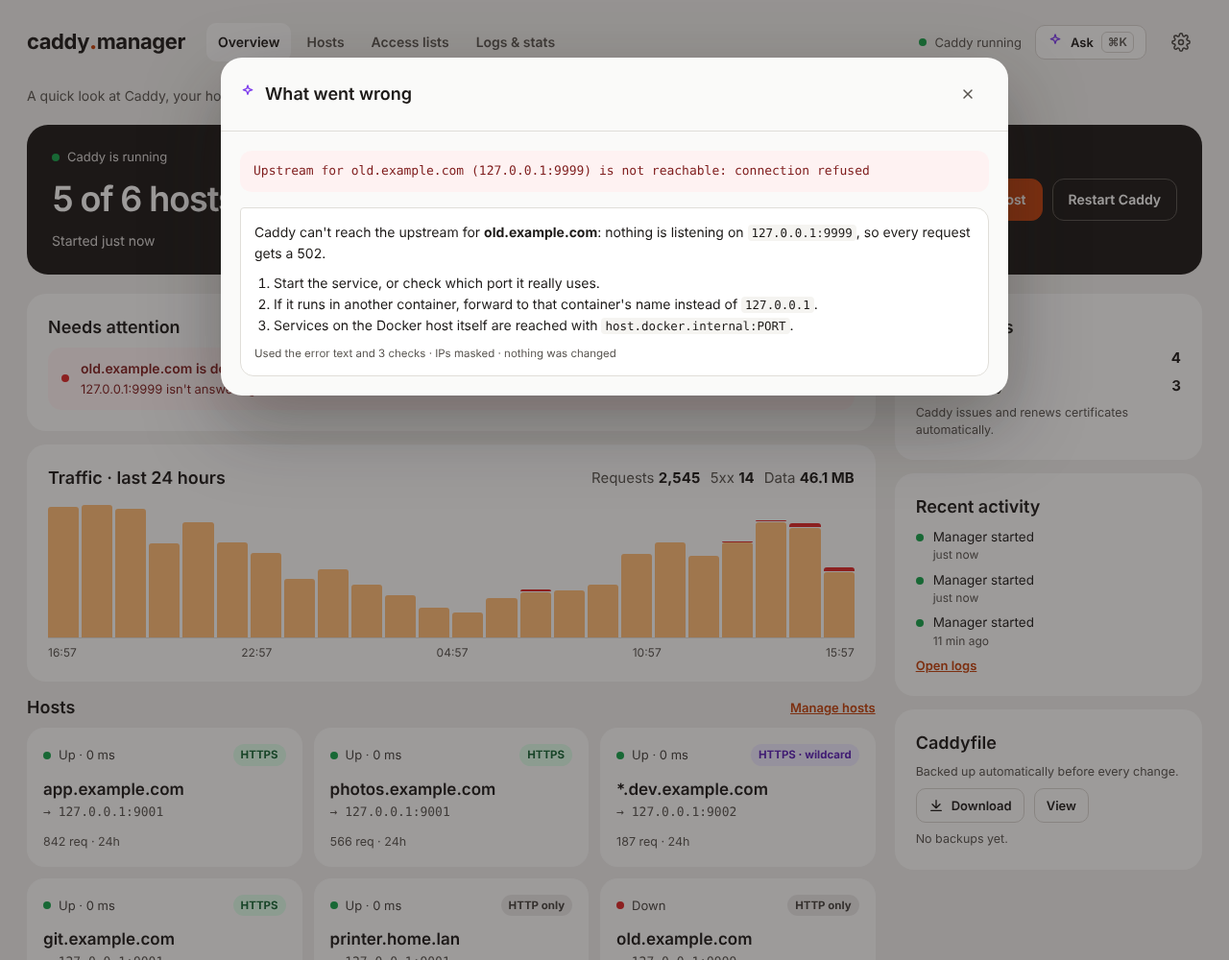
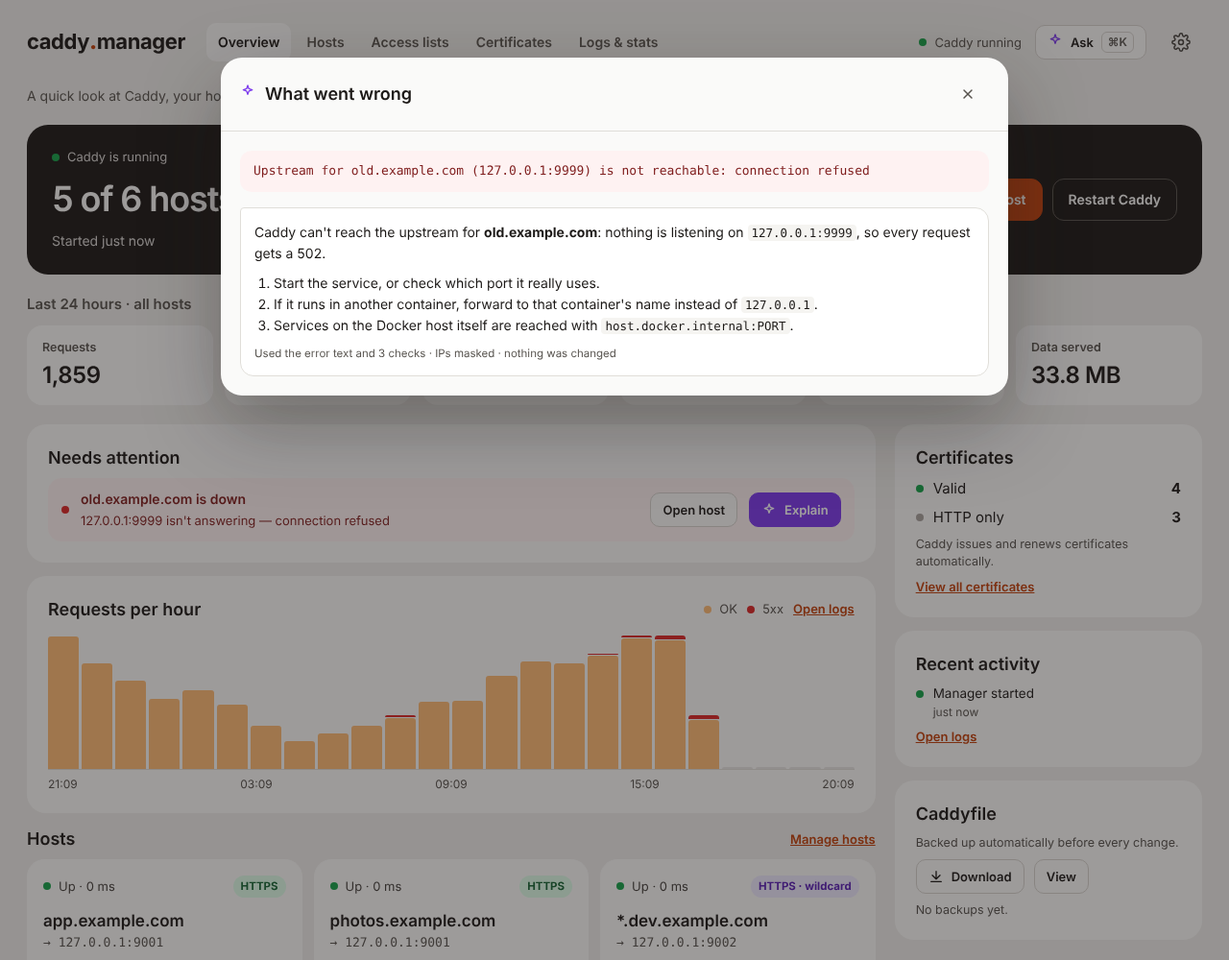
upd + certificate

diff --git a/web/app.js b/web/app.js
@@ -102,6 +102,7 @@ function rerender() {
   else if (p[0] === 'host' && p[2] === 'log') html = pageHostLog(p[1]);
   else if (p[0] === 'host') html = pageEditor(p[1]);
   else if (p[0] === 'access') html = pageAccess();
+  else if (p[0] === 'certs') html = pageCerts();
   else if (p[0] === 'logs') html = pageLogs();
   else if (p[0] === 'settings') html = pageSettings();
   else html = shell('', '<div class="card empty">Page not found. <a href="#/">Go to overview</a></div>');
@@ -139,7 +140,7 @@ function renderLogin() {
 // ---------- shell ----------
 function aiOn() { return !!(S.settings && S.settings.ai && S.settings.ai.enabled); }
 function shell(active, body) {
-  const nav = [['overview', '#/', 'Overview'], ['hosts', '#/hosts', 'Hosts'], ['access', '#/access', 'Access lists'], ['logs', '#/logs', 'Logs &amp; stats']]
+  const nav = [['overview', '#/', 'Overview'], ['hosts', '#/hosts', 'Hosts'], ['access', '#/access', 'Access lists'], ['certs', '#/certs', 'Certificates'], ['logs', '#/logs', 'Logs &amp; stats']]
     .map(([k, h, l]) => `<a href="${h}" class="${active === k ? 'on' : ''}">${l}</a>`).join('');
   const c = S.status && S.status.caddy;
   const st = c ? (c.running ? '<span class="dot up"></span>Caddy running' : '<span class="dot down"></span>Caddy stopped') : '';
@@ -186,6 +187,13 @@ function destLabel(h) {
   return esc(h.upstreams.join(', ')) + (h.paths.length ? ` <span class="muted">+${h.paths.length} path${h.paths.length > 1 ? 's' : ''}</span>` : '');
 }
 
+function statTilesHTML(stats, opts = {}) {
+  if (!stats || stats.error) return `<div class="card muted">${stats && stats.error ? esc(stats.error) : 'Loading…'}</div>`;
+  const t = [['Requests', fmtN(stats.total)], ['Errors (5xx)', fmtN(stats.err5), stats.err5 ? 'var(--bad-ink)' : ''], ['Client errors (4xx)', fmtN(stats.err4), stats.err4 ? 'var(--warn-ink)' : '']];
+  if (opts.blocked) t.push(['Blocked (403)', fmtN(stats.blocked)]);
+  t.push(['Median response', stats.medianMs + ' ms'], ['Data served', fmtB(stats.bytes)]);
+  return `<section class="grid" aria-label="${esc(opts.label || 'Stats')}" style="grid-template-columns:repeat(auto-fit,minmax(150px,1fr))">${t.map(([l, v, c]) => `<div class="stat"><div class="l">${l}</div><div class="v" style="${c ? 'color:' + c : ''}">${v}</div></div>`).join('')}</section>`;
+}
 function bars(buckets, height) {
   const max = Math.max(1, ...buckets.map((b) => b.ok + b.err));
   return `<div class="bars" style="height:${height || 140}px" role="img" aria-label="Requests over time">${buckets.map((b) => {
@@ -385,14 +393,13 @@ function pageOverview() {
     const s = hs(h.id);
     if (h.type === 'proxy' && s.health === 'down') att.push({ k: 'bad', t: `${hostName(h)} is down`, d: `${h.upstreams.join(', ')} isn't answering${s.error ? ' — ' + s.error : ''}`, act: `<a class="btn sm" href="#/host/${h.id}">Open host</a>`, ex: `Upstream for ${hostName(h)} (${h.upstreams.join(', ')}) is not reachable: ${s.error || 'connection failed'}`, hid: h.id });
     if (h.type === 'proxy' && s.health === 'slow') att.push({ k: 'warn', t: `${hostName(h)} is slow`, d: `Upstream took ${s.ms} ms to accept a connection`, act: `<a class="btn sm" href="#/host/${h.id}/log">View log</a>` });
-    if (s.cert === 'failed') att.push({ k: 'bad', t: `Certificate problem on ${hostName(h)}`, d: s.certError || 'Caddy could not get a certificate', act: `<a class="btn sm" href="#/host/${h.id}">Open host</a>`, ex: s.certError || 'Certificate could not be obtained for ' + hostName(h), hid: h.id });
-    if (s.cert === 'expiring') att.push({ k: 'warn', t: `Certificate for ${hostName(h)} expires in ${s.certDays} days`, d: 'Caddy renews certificates well before they expire, so renewal may be failing.', act: `<a class="btn sm" href="#/host/${h.id}">Open host</a>`, ex: `Certificate for ${hostName(h)} expires in ${s.certDays} days and has not been renewed`, hid: h.id });
+    if (s.cert === 'failed') att.push({ k: 'bad', t: `Certificate problem on ${hostName(h)}`, d: s.certError || 'Caddy could not get a certificate', act: `<button class="btn sm" data-a="cert-retry" data-h="${h.id}">Retry now</button><a class="btn sm" href="#/host/${h.id}">Open host</a>`, ex: s.certError || 'Certificate could not be obtained for ' + hostName(h), hid: h.id });
+    if (s.cert === 'expiring') att.push({ k: 'warn', t: `Certificate for ${hostName(h)} expires in ${s.certDays} days`, d: 'Caddy renews certificates well before they expire, so renewal may be failing.', act: `<button class="btn sm" data-a="cert-retry" data-h="${h.id}">Retry now</button><a class="btn sm" href="#/host/${h.id}">Open host</a>`, ex: `Certificate for ${hostName(h)} expires in ${s.certDays} days and has not been renewed`, hid: h.id });
   }
   const attHTML = att.length ? att.map((a, i) => `<div class="att ${a.k}"><span class="dot ${a.k === 'bad' ? 'down' : 'slow'}"></span><div style="flex:1 1 260px;min-width:0"><div class="t">${esc(a.t)}</div><div class="d">${esc(a.d)}</div></div>${a.act}${a.ex && aiOn() ? `<button class="btn sm ai" data-a="explain" data-err="${esc(a.ex)}" data-h="${a.hid || ''}">${I.sparkle}Explain</button>` : ''}</div>`).join('')
     : '<div class="att info"><span class="dot up"></span><div class="t">All good — nothing needs your attention.</div></div>';
   let traffic = '<div class="muted">Loading…</div>';
-  if (stats && !stats.error) traffic = `<div class="between" style="margin-bottom:14px"><h2 class="fill">Traffic · last 24 hours</h2>
-      <span class="muted">Requests <b style="color:var(--ink)">${fmtN(stats.total)}</b></span><span class="muted">5xx <b style="color:var(--ink)">${fmtN(stats.err5)}</b></span><span class="muted">Data <b style="color:var(--ink)">${fmtB(stats.bytes)}</b></span></div>
+  if (stats && !stats.error) traffic = `<div class="between" style="margin-bottom:14px"><h2 class="fill">Requests per hour</h2><span class="pill-status"><span class="dot" style="background:#FDBA74"></span>OK</span><span class="pill-status"><span class="dot down"></span>5xx</span><a href="#/logs" style="font-size:13px;font-weight:600">Open logs</a></div>
       ${bars(stats.buckets.map((b) => ({ ok: b.ok, err: b.err })))}${ticks(stats.from, stats.step, stats.buckets.length)}`;
   const tiles = hosts.length ? hosts.map((h) => { const s = hs(h.id); const [cls, lbl] = healthLabel(h, s); const per = stats && stats.perHost ? stats.perHost.find((x) => x.id === h.id) : null;
     return `<a class="tile" href="#/host/${h.id}"><div class="between"><span class="pill-status" style="color:var(--soft)"><span class="dot ${cls}"></span>${lbl}</span><span class="fill"></span>${h.type === 'proxy' ? certTag(h, s) : `<span class="tag t-${h.type}">${h.type === 'dead' ? '404' : 'Redirect'}</span>`}</div>
@@ -401,13 +408,15 @@ function pageOverview() {
     : `<div class="card empty">No hosts yet. <a href="#/host/new">Add your first host</a></div>`;
   const certCounts = { valid: 0, expiring: 0, failed: 0, pending: 0, http: 0 };
   hosts.filter((h) => h.enabled).forEach((h) => { const s = hs(h.id).cert; if (s in certCounts) certCounts[s]++; });
-  const events = (S.status.events || []).slice(-8).reverse();
+  const events = (S.status.events || []).filter((e, i, all) => !(all[i + 1] && all[i + 1].msg === e.msg && all[i + 1].identifier === e.identifier)).slice(-8).reverse();
   return shell('overview', `<p class="lead">A quick look at Caddy, your hosts, traffic and anything that needs fixing.</p>
     <section class="hero" aria-label="Status"><div style="flex:1 1 360px" class="stack s8">
       <span class="pill-status" style="color:#D6D3D1"><span class="dot ${c.running ? 'up' : 'down'}"></span>Caddy is ${c.running ? 'running' : 'stopped'}</span>
       <h1>${proxies.length ? `${healthy} of ${proxies.length} host${proxies.length > 1 ? 's' : ''} healthy` : hosts.length ? `${hosts.filter((h) => h.enabled).length} host${hosts.length > 1 ? 's' : ''} active` : 'Welcome'}</h1>
       <span class="sub">${c.running ? 'Started ' + ago(c.since) : ''}${S.state.manual ? ' · uploaded Caddyfile' : ''}</span></div>
       <div class="between"><a class="btn primary" href="#/host/new">${I.plus}Add host</a><button class="btn" data-a="restart-caddy">Restart Caddy</button></div></section>
+    <div class="between" style="margin-bottom:-8px"><h2 class="fill" style="font-size:15px;font-family:Inter,sans-serif;color:var(--muted);font-weight:600">Last 24 hours · all hosts</h2></div>
+    ${statTilesHTML(stats, { blocked: true, label: 'Last 24 hours' })}
     <div class="row"><div class="grow stack">
       <section class="card stack s8" aria-label="Needs attention"><h2>Needs attention</h2>${attHTML}</section>
       <section class="card" aria-label="Traffic">${traffic}</section>
@@ -416,7 +425,7 @@ function pageOverview() {
     <aside class="side stack">
       <section class="card stack s8"><h2>Certificates</h2>
         ${[['valid', 'Valid', 'up'], ['expiring', 'Expiring soon', 'slow'], ['failed', 'Failed', 'down'], ['pending', 'Waiting to be issued', 'na'], ['http', 'HTTP only', 'na']].filter(([k]) => certCounts[k] || k === 'valid').map(([k, l, d]) => `<div class="between"><span class="dot ${d}"></span><span class="fill">${l}</span><b>${certCounts[k]}</b></div>`).join('')}
-        <p class="hint">Caddy issues and renews certificates automatically.</p></section>
+        <p class="hint">Caddy issues and renews certificates automatically.</p><a href="#/certs" style="font-size:13px;font-weight:600">View all certificates</a></section>
       <section class="card stack s8"><h2>Recent activity</h2>${events.length ? events.map((e) => `<div class="ev"><span class="dot ${e.level === 'error' ? 'down' : e.level === 'warn' ? 'slow' : 'up'}"></span><div style="min-width:0"><div style="word-break:break-word">${esc(e.msg)}${e.identifier ? ' · ' + esc(e.identifier) : ''}</div>${e.error ? `<div class="muted mono" style="font-size:12px;word-break:break-word">${esc(e.error.slice(0, 220))}</div>` : ''}<div class="muted" style="font-size:12px">${ago(e.ts)}</div></div></div>`).join('') : '<p class="hint">Nothing yet.</p>'}
         <a href="#/logs" style="font-size:13px;font-weight:600">Open logs</a></section>
       <section class="card stack s8"><h2>Caddyfile</h2><p class="hint">Backed up automatically before every change.</p>
@@ -552,7 +561,7 @@ function pageEditor(id) {
     const s = hs(e.id);
     panel = `<div class="choice">${[['https', 'HTTPS', 'Encrypted, certificate managed for you'], ['http', 'HTTP only', 'Plain routing, no certificate']].map(([k, l, d]) => `<button type="button" class="${e.proto === k ? 'on' : ''}" data-a="proto" data-k="${k}" aria-pressed="${e.proto === k}"><b>${l}</b><span>${d}</span></button>`).join('')}</div>`;
     if (https) {
-      if (!P.data.isNew) panel += `<div class="note ${s.cert === 'valid' ? 'ok' : s.cert === 'failed' ? 'bad' : s.cert === 'expiring' ? 'warn' : ''} between"><span class="fill">${s.cert === 'valid' ? `Certificate valid · ${issuerName(s.certIssuer)}${s.certDays >= 1 ? ' · ' + s.certDays + ' days left' : ' · renewed automatically'}` : s.cert === 'expiring' ? `Expires in ${s.certDays} days` : s.cert === 'failed' ? 'Certificate failed: ' + esc(s.certError) : 'No certificate yet — Caddy gets one on the first request after applying.'}</span>${s.cert === 'failed' && aiOn() ? `<button class="btn sm ai" data-a="explain" data-err="${esc(s.certError)}" data-h="${e.id}">${I.sparkle}Explain</button>` : ''}</div>`;
+      if (!P.data.isNew) panel += `<div class="note ${s.cert === 'valid' ? 'ok' : s.cert === 'failed' ? 'bad' : s.cert === 'expiring' ? 'warn' : ''} between"><span class="fill">${s.cert === 'valid' ? `Certificate valid · ${issuerName(s.certIssuer)}${s.certDays >= 1 ? ' · ' + s.certDays + ' days left' : ' · renewed automatically'}` : s.cert === 'expiring' ? `Expires in ${s.certDays} days` : s.cert === 'failed' ? 'Certificate failed: ' + esc(s.certError) : 'No certificate yet — Caddy gets one on the first request after applying.'}</span>${s.cert !== 'valid' && s.cert !== 'http' && !P.data.isNew ? `<button class="btn sm" data-a="cert-retry" data-h="${e.id}">Retry now</button>` : ''}${s.cert === 'failed' && aiOn() ? `<button class="btn sm ai" data-a="explain" data-err="${esc(s.certError)}" data-h="${e.id}">${I.sparkle}Explain</button>` : ''}</div>`;
       panel += `<div class="stack s8"><span class="f">Certificate</span><div class="choice">${[['auto', 'Automatic', 'Let’s Encrypt / ZeroSSL'], ['dns', 'DNS challenge', 'Wildcards, hosts behind a firewall'], ['internal', 'Self-signed', 'Caddy’s local CA, for LAN'], ['custom', 'Upload my own', '.crt and .key files']].map(([k, l, d]) => `<button type="button" class="${e.cert === k ? 'on' : ''}" data-a="cert" data-k="${k}" aria-pressed="${e.cert === k}"><b>${l}</b><span>${d}</span></button>`).join('')}</div></div>`;
       if (e.cert === 'dns') panel += `<p class="note ${S.settings.hasDnsToken ? 'ai' : 'warn'}">Uses Cloudflare. ${S.settings.hasDnsToken ? 'Your API token is saved in Settings.' : 'Add your Cloudflare API token in <a href="#/settings">Settings</a> first.'}</p>`;
       if (e.cert === 'custom') panel += `<form id="certForm" class="line note"><label class="f" style="flex:1 1 200px">Certificate (.crt / .pem)<input type="file" name="cert" required></label><label class="f" style="flex:1 1 200px">Private key (.key)<input type="file" name="key" required></label><button class="btn sm" type="submit">Upload files</button></form><p class="hint">Upload the files first, then apply.</p>`;
@@ -617,7 +626,7 @@ function logPage(h) {
   if (!d.live && pollTimer) { clearInterval(pollTimer); pollTimer = null; }
   const s = h ? hs(h.id) : null;
   const ranges = `<div class="seg" role="group" aria-label="Range">${[['1h', '1 h'], ['24h', '24 h'], ['7d', '7 d']].map(([k, l]) => `<button class="${d.range === k ? 'on' : ''}" data-a="lrange" data-k="${k}">${l}</button>`).join('')}</div>`;
-  const statTiles = stats && !stats.error ? `<section class="grid" style="grid-template-columns:repeat(auto-fit,minmax(150px,1fr))">${[['Requests', fmtN(stats.total)], ['Errors (5xx)', fmtN(stats.err5), stats.err5 ? 'var(--bad-ink)' : ''], ['Client errors (4xx)', fmtN(stats.err4)], ['Median response', stats.medianMs + ' ms'], ['Data served', fmtB(stats.bytes)]].map(([l, v, c]) => `<div class="stat"><div class="l">${l}</div><div class="v" style="${c ? 'color:' + c : ''}">${v}</div></div>`).join('')}</section>` : `<div class="card muted">${stats && stats.error ? esc(stats.error) : 'Loading…'}</div>`;
+  const statTiles = statTilesHTML(stats);
   const chart = stats && !stats.error ? `<section class="card"><div class="between" style="margin-bottom:12px"><h2 class="fill" style="font-size:15px;font-family:Inter,sans-serif">Requests</h2><span class="pill-status"><span class="dot" style="background:#FDBA74"></span>OK</span><span class="pill-status"><span class="dot down"></span>5xx</span></div>${bars(stats.buckets, 120)}${ticks(stats.from, stats.step, stats.buckets.length)}</section>` : '';
   const codes = stats && !stats.error && !h ? `<section class="card stack s8"><h2>Responses</h2>${(() => { const t = Math.max(1, stats.total); const c = stats.codes; const col = { 2: '#22C55E', 3: '#60A5FA', 4: '#F59E0B', 5: '#DC2626' }; return `<div class="split">${[2, 3, 4, 5].map((k) => c[k] ? `<span style="width:${(c[k] / t) * 100}%;background:${col[k]}"></span>` : '').join('')}</div>` + [[2, 'OK'], [3, 'Redirect'], [4, 'Client error'], [5, 'Server error']].map(([k, l]) => `<div class="between" style="font-size:14px"><span class="dot" style="background:${col[k]};border-radius:3px"></span><span class="fill">${k}xx ${l}</span><b>${((c[k] / t) * 100).toFixed(1)}%</b></div>`).join(''); })()}</section>` : '';
   const perHost = stats && !stats.error && !h ? `<section class="card flush"><h2 style="padding:16px 20px">By host</h2><div class="tbl-wrap"><table style="min-width:560px"><thead><tr><th>Host</th><th style="text-align:right">Requests</th><th style="text-align:right">5xx</th><th style="text-align:right">Avg response</th><th style="text-align:right">Data</th></tr></thead><tbody>${stats.perHost.length ? stats.perHost.map((p) => `<tr class="hover"><td><a href="#/host/${p.id}/log" style="color:var(--ink);font-weight:600">${esc(p.domain)}</a></td><td class="mono" style="text-align:right">${fmtN(p.req)}</td><td class="mono" style="text-align:right;${p.err ? 'color:var(--bad-ink)' : ''}">${fmtN(p.err)}</td><td class="mono" style="text-align:right">${p.avgMs} ms</td><td class="mono" style="text-align:right">${fmtB(p.bytes)}</td></tr>`).join('') : '<tr><td colspan="5" class="empty">No hosts yet.</td></tr>'}</tbody></table></div></section>` : '';
@@ -671,6 +680,40 @@ const renderListSnippet = debounce(async () => {
 }, 250);
 function listsForSave() {
   return P.data.lists.map((l) => ({ id: l.id, name: l.name, pass: !!l.pass, satisfy: l.satisfy || 'any', users: l.users.filter((u) => u.name.trim()).map((u) => ({ name: u.name.trim(), password: u.password || undefined })), rules: l.rules.filter((r) => r.cidr.trim()).map((r) => ({ act: r.act, cidr: r.cidr.trim() })) }));
+}
+
+// ---------- pages: certificates ----------
+function pageCerts() {
+  if (!pollTimer) pollTimer = setInterval(async () => { if ($modal.innerHTML) return; await refreshStatus(); rerender(); }, 15000);
+  const hosts = S.state.hosts.filter((h) => h.enabled);
+  const fmtDate = (sec) => new Date(sec * 1000).toLocaleDateString(undefined, { year: 'numeric', month: 'short', day: 'numeric' });
+  const rows = hosts.map((h) => {
+    const s = hs(h.id);
+    let tag, detail = '';
+    if (h.proto === 'http') { tag = '<span class="tag t-muted">HTTP only</span>'; detail = 'No certificate: this host is served over plain HTTP.'; }
+    else if (s.cert === 'valid') { tag = `<span class="tag ${h.domains.some((d) => d.startsWith('*.')) ? 't-wild' : 't-ok'}">Valid</span>`; detail = s.certDays >= 1 ? `Renews automatically · ${s.certDays} days left` : 'Short-lived certificate, renewed automatically'; }
+    else if (s.cert === 'expiring') { tag = `<span class="tag t-warn">Expiring</span>`; detail = `Only ${s.certDays} days left. Caddy should have renewed it by now.`; }
+    else if (s.cert === 'failed') { tag = '<span class="tag t-bad">Failed</span>'; detail = s.certError || 'Caddy could not get a certificate.'; }
+    else { tag = '<span class="tag t-muted">Waiting</span>'; detail = h.cert === 'dns' && !S.settings.hasDnsToken ? 'Needs a Cloudflare token in Settings.' : 'Not issued yet. Caddy requests it right after you apply; check DNS and ports 80/443 if it stays here.'; }
+    const method = h.proto === 'http' ? '—' : { auto: 'Automatic', dns: 'DNS challenge', internal: 'Self-signed', custom: 'Your files' }[h.cert];
+    const canRetry = h.proto === 'https' && h.cert !== 'custom' && s.cert !== 'valid';
+    return `<tr class="hover"><td><a href="#/host/${h.id}" style="color:var(--ink);font-weight:600;text-decoration:none">${esc(hostName(h))}</a>${h.domains.length > 1 ? `<div class="muted" style="font-size:12.5px">+ ${h.domains.slice(1).map(esc).join(', ')}</div>` : ''}</td>
+      <td>${tag}</td><td style="font-size:13px;color:var(--soft);white-space:nowrap">${method}${s.certIssuer && s.cert !== 'failed' ? '<div class="muted" style="font-size:12px">' + issuerName(s.certIssuer) + '</div>' : ''}</td>
+      <td style="font-size:13px;white-space:nowrap">${s.certUntil ? fmtDate(s.certUntil) : '—'}</td>
+      <td style="font-size:13px;color:${s.cert === 'failed' ? 'var(--bad-ink)' : 'var(--soft)'};max-width:380px;word-break:break-word">${esc(detail)}</td>
+      <td style="text-align:right;white-space:nowrap">${canRetry ? `<button class="btn sm" data-a="cert-retry" data-h="${h.id}">Retry now</button>` : ''}${s.cert === 'failed' && aiOn() ? ` <button class="btn sm ai" data-a="explain" data-err="${esc(s.certError)}" data-h="${h.id}">${I.sparkle}Explain</button>` : ''}</td></tr>`;
+  }).join('');
+  // certificates Caddy holds that no managed host uses (e.g. sites kept as written)
+  const managed = hosts.flatMap((h) => h.domains);
+  const covered = (n) => managed.some((d) => d === n || (n.startsWith('*.') && d.endsWith(n.slice(1))) || (d.startsWith('*.') && n.endsWith(d.slice(1))));
+  const other = (S.status.certList || []).filter((c) => !c.names.some(covered));
+  const counts = { valid: 0, expiring: 0, failed: 0, waiting: 0 };
+  hosts.filter((h) => h.proto === 'https').forEach((h) => { const c = hs(h.id).cert; counts[c === 'pending' || c === 'none' ? 'waiting' : c] = (counts[c === 'pending' || c === 'none' ? 'waiting' : c] || 0) + 1; });
+  return shell('certs', `<div class="between"><div class="fill"><h1>Certificates</h1><p class="lead">The HTTPS certificate behind each host: whether it’s valid, who issued it and when it expires. Caddy renews them on its own; retry here if one failed.</p></div>
+    <button class="btn" data-a="cert-retry" data-h="">Retry all missing</button></div>
+    <section class="grid" style="grid-template-columns:repeat(auto-fit,minmax(150px,1fr))">${[['Valid', counts.valid, ''], ['Expiring', counts.expiring, counts.expiring ? 'var(--warn-ink)' : ''], ['Failed', counts.failed, counts.failed ? 'var(--bad-ink)' : ''], ['Waiting', counts.waiting, '']].map(([l, v, c]) => `<div class="stat"><div class="l">${l}</div><div class="v" style="${c ? 'color:' + c : ''}">${v}</div></div>`).join('')}</section>
+    <div class="card flush"><div class="tbl-wrap"><table style="min-width:860px"><thead><tr><th>Host</th><th>Status</th><th>Method</th><th>Expires</th><th>Details</th><th><span class="sr">Actions</span></th></tr></thead><tbody>${rows || '<tr><td colspan="6" class="empty">No hosts yet.</td></tr>'}</tbody></table></div></div>
+    ${other.length ? `<section class="card flush"><h2 style="padding:16px 20px 4px">Other certificates</h2><p class="hint" style="padding:0 20px 8px">Held by Caddy for names that no managed host uses, such as sites kept as written.</p><div class="tbl-wrap"><table style="min-width:560px"><thead><tr><th>Names</th><th>Issuer</th><th>Expires</th></tr></thead><tbody>${other.map((c) => `<tr><td class="mono" style="word-break:break-all">${c.names.map(esc).join(', ')}</td><td style="font-size:13px">${issuerName(c.issuer)}</td><td style="font-size:13px;white-space:nowrap">${fmtDate(c.notAfter)}</td></tr>`).join('')}</tbody></table></div></section>` : ''}`);
 }
 
 // ---------- pages: settings ----------
@@ -767,6 +810,14 @@ const ACT = {
   restore: async (el) => {
     openModal('Restore backup', '<span class="spin"></span>');
     try { const r = await post('/api/backups/restore', { id: el.dataset.id }); REVIEW = { payload: {}, label: r.label, after: null, res: r }; showReview(r); } catch (e) { setModalBody(`<div class="note bad">${esc(e.message)}</div>`); }
+  },
+  'cert-retry': async (el) => {
+    el.disabled = true; el.textContent = 'Retrying…';
+    try {
+      await post('/api/certs/retry', { hostId: el.dataset.h || '' });
+      toast('Caddy is requesting the certificate again — this can take up to a minute');
+      setTimeout(async () => { await refreshStatus(); rerender(); }, 4000);
+    } catch (e) { toast(e.message, true); el.disabled = false; el.textContent = 'Retry now'; }
   },
   'restart-caddy': async (el) => { el.disabled = true; try { await post('/api/caddy/restart'); toast('Caddy restarted'); await refreshStatus(); } catch (e) { toast(e.message, true); } rerender(); },
   unmanual: () => review({ managed: true }, 'Switch back to managed hosts'),

diff --git a/main.go b/main.go
@@ -273,6 +273,7 @@ func (a *App) routes(mux *http.ServeMux) {
 	api("POST /api/settings/test", a.testAI)
 	api("POST /api/ai", a.ai)
 	api("POST /api/certs/{id}", a.uploadCert)
+	api("POST /api/certs/retry", a.retryCert)
 	api("POST /api/caddy/restart", func(w http.ResponseWriter, r *http.Request) {
 		if err := a.caddy.Restart(); err != nil {
 			jerr(w, 500, err.Error())
@@ -821,6 +822,7 @@ type hostStatus struct {
 	Error      string `json:"error,omitempty"`
 	Cert       string `json:"cert"` // valid | expiring | failed | pending | http | none
 	CertDays   int    `json:"certDays"`
+	CertUntil  int64  `json:"certUntil,omitempty"`
 	CertIssuer string `json:"certIssuer,omitempty"`
 	CertError  string `json:"certError,omitempty"`
 }
@@ -874,6 +876,7 @@ func (a *App) hostStatuses(st State) map[string]hostStatus {
 				left := time.Until(time.Unix(best, 0))
 				life := time.Duration(best-bestFrom) * time.Second
 				hs.CertDays = int(left.Hours() / 24)
+				hs.CertUntil = best
 				hs.Cert = "valid"
 				// Caddy renews with about a third of the lifetime left; under a fifth means renewal is overdue
 				if left < life/5 || left <= 0 {
@@ -911,6 +914,31 @@ func (a *App) hostStatuses(st State) map[string]hostStatus {
 	return out
 }
 
+// retryCert reloads the running config with --force, which makes Caddy drop its back-off and
+// request missing or failed certificates again right away.
+func (a *App) retryCert(w http.ResponseWriter, r *http.Request) {
+	var req struct {
+		HostID string `json:"hostId"`
+	}
+	readJSON(r, &req)
+	st, _ := a.snapshot()
+	name := "all hosts"
+	for _, h := range st.Hosts {
+		if h.ID == req.HostID {
+			name = strings.Join(h.Domains, ", ")
+		}
+	}
+	a.applyMu.Lock()
+	err := a.caddy.Reload()
+	a.applyMu.Unlock()
+	if err != nil {
+		jerr(w, 500, "Caddy couldn't reload: "+err.Error())
+		return
+	}
+	a.caddy.note("info", "Retrying certificate for "+name)
+	jok(w, map[string]bool{"ok": true})
+}
+
 func (a *App) checkNow(w http.ResponseWriter, r *http.Request) {
 	st, _ := a.snapshot()
 	a.mon.CheckAll(st)
@@ -926,11 +954,12 @@ func (a *App) getStatus(w http.ResponseWriter, r *http.Request) {
 	}
 	certs := scanCerts(a.dataDir)
 	jok(w, map[string]any{
-		"caddy":  map[string]any{"running": running, "error": exitErr, "since": since.Unix()},
-		"hosts":  a.hostStatuses(st),
-		"events": events,
-		"certs":  len(certs),
-		"manual": st.Manual,
+		"caddy":    map[string]any{"running": running, "error": exitErr, "since": since.Unix()},
+		"hosts":    a.hostStatuses(st),
+		"events":   events,
+		"certs":    len(certs),
+		"certList": certs,
+		"manual":   st.Manual,
 	})
 }
 

diff --git a/importer.go b/importer.go
@@ -282,6 +282,7 @@ func convertSite(n *cnode, snippets map[string]*cnode) (Host, []string, string) 
 	}
 
 	mains := 0
+	hostNoop := false
 	var raw []string
 	setMainProxy := func(k *cnode, ups []string) string {
 		if len(ups) == 0 {
@@ -306,6 +307,25 @@ func convertSite(n *cnode, snippets map[string]*cnode) (Host, []string, string) 
 				}
 				h.HealthPath = a[0]
 			case "health_interval":
+			case "header_up", "header_down":
+				if len(a) != 2 || !reHdrName.MatchString(a[0]) || !noBad(a[1]) || strings.Contains(a[1], "{upstream") {
+					return fmt.Sprintf("reverse_proxy uses a %s rule this app doesn't manage", sk.name())
+				}
+				if sk.name() == "header_up" && strings.EqualFold(a[0], "Host") && (a[1] == "{http.request.host}" || a[1] == "{host}") {
+					// Caddy forwards the Host header as received; that only differs (by the port) on non-standard ports
+					for _, d := range h.Domains {
+						if strings.Contains(d, ":") {
+							return "it rewrites the Host header on a site with a custom port"
+						}
+					}
+					hostNoop = true
+					continue
+				}
+				kind := "req"
+				if sk.name() == "header_down" {
+					kind = "res"
+				}
+				h.Headers = append(h.Headers, Header{Kind: kind, Name: a[0], Value: a[1]})
 			default:
 				return fmt.Sprintf("reverse_proxy uses %q", sk.name())
 			}
@@ -482,6 +502,9 @@ func convertSite(n *cnode, snippets map[string]*cnode) (Host, []string, string) 
 	}
 	if h.Type == "proxy" && len(h.Upstreams) == 0 {
 		return h, nil, "it has paths but no main upstream"
+	}
+	if hostNoop {
+		notes = append(notes, "header_up Host {http.request.host} dropped: Caddy already sends the original Host header")
 	}
 	h.Raw = strings.TrimSpace(strings.Join(raw, ""))
 	return h, notes, ""

diff --git a/import_test.go b/import_test.go
@@ -178,3 +178,44 @@ func TestImportRejects(t *testing.T) {
 		t.Fatal(err)
 	}
 }
+
+func TestImportHostHeaderNoop(t *testing.T) {
+	src, err := os.ReadFile("/tmp/user.Caddyfile")
+	if err != nil {
+		t.Skip("sample not present")
+	}
+	res, err := importCaddyfile(string(src))
+	if err != nil {
+		t.Fatal(err)
+	}
+	for _, it := range res.Items {
+		t.Logf("%-40s managed=%v %v", it.Name, it.Managed, it.Notes)
+		if !it.Managed {
+			t.Errorf("%s should be managed", it.Name)
+		}
+	}
+	if res.ExtraConfig != "" {
+		t.Errorf("nothing should be kept as written, got:\n%s", res.ExtraConfig)
+	}
+	st := State{Hosts: res.Hosts}
+	if err := validateState(&st); err != nil {
+		t.Fatal(err)
+	}
+	if os.Getenv("CADDY_BIN") != "" {
+		c := &Caddy{bin: os.Getenv("CADDY_BIN"), dataDir: t.TempDir()}
+		c.setEnv("")
+		if err := c.Validate(generate(&st, Settings{}, t.TempDir())); err != nil {
+			t.Fatal(err)
+		}
+	}
+	// a header_up that does change something becomes a "to upstream" header
+	r2, _ := importCaddyfile("a.com {\n reverse_proxy x:1 {\n  header_up X-Real-IP {remote_host}\n  header_down Strict-Transport-Security max-age=300\n }\n}\n")
+	if !r2.Items[0].Managed || len(r2.Hosts[0].Headers) != 2 || r2.Hosts[0].Headers[0].Kind != "req" || r2.Hosts[0].Headers[1].Kind != "res" {
+		t.Errorf("header_up/down mapping: %+v", r2.Hosts)
+	}
+	// placeholders that only exist inside reverse_proxy must keep the site as written
+	r3, _ := importCaddyfile("a.com {\n reverse_proxy x:1 {\n  header_up Host {upstream_hostport}\n }\n}\n")
+	if r3.Items[0].Managed {
+		t.Error("{upstream_hostport} must not be converted")
+	}
+}

diff --git a/README.md b/README.md
@@ -17,7 +17,8 @@ answers questions about your traffic and logs, and suggests fixes for you to rev
 - **Extras:** load balancing with health checks, custom headers, maintenance mode, exploit blocking, compression, static caching
 - **Safe changes:** `caddy validate` before every apply, a line-by-line diff, automatic backups with one-click restore
 - **Caddyfile:** download the active file, or upload an existing one to **import its sites as managed hosts** (or run it as-is)
-- **Monitoring:** upstream health checks, certificate status, traffic stats and a searchable, downloadable log per host
+- **Monitoring:** upstream health checks, traffic stats on the overview, and a searchable, downloadable log per host
+- **Certificates:** one page listing every certificate with its status, issuer and expiry, plus **Retry now** when issuing fails
 - **Optional AI assistant:** Anthropic, OpenAI, any OpenAI-compatible endpoint, or Ollama. It explains errors, answers questions about your logs, and drafts host changes for you to review. It never applies anything itself.
 
 ## Quick start (Docker)
@@ -95,6 +96,12 @@ Caddy validates the new config, upstreams are checked, and you see exactly what 
 The current Caddyfile is backed up first.
 
 ![Review](docs/screenshots/review.png)
+
+### Certificates
+Every host's certificate in one list. If one fails (DNS not pointing here yet, port 80 blocked), fix the cause and press
+**Retry now**: Caddy requests it again immediately instead of waiting out its back-off.
+
+![Certificates](docs/screenshots/certificates.png)
 
 ### Access lists
 Logins and IP rules defined once and reused on any host.

diff --git a/HANDOFF.md b/HANDOFF.md
@@ -162,6 +162,9 @@ Restoring a backup goes through the same preview → apply path.
 - **Stats and logs** read only the current `access.log` (up to 50 MiB, 300k entries in memory). Rolled files are ignored,
   so "7 days" may be partial on busy sites.
 - **Health checks** are TCP connects every 30 s, not HTTP requests.
+- **Certificate retry** (`POST /api/certs/retry`) is a forced `caddy reload`, which cancels Caddy's back-off and starts new
+  issuance attempts for every name without a certificate. Let's Encrypt still rate-limits failed validations (about 5 per hour per
+  hostname); after repeated failures Caddy also tries its fallback issuer (ZeroSSL).
 - **Certificate "expiring"** means less than 20 % of the certificate's lifetime is left. Caddy renews at about 33 %, so this signals that renewal is behind.
 - **DNS challenge** supports Cloudflare only. Other providers need another plugin in the Dockerfile and a matching option in the UI.
 - **No TCP/UDP streams:** they would need the `caddy-l4` plugin.
